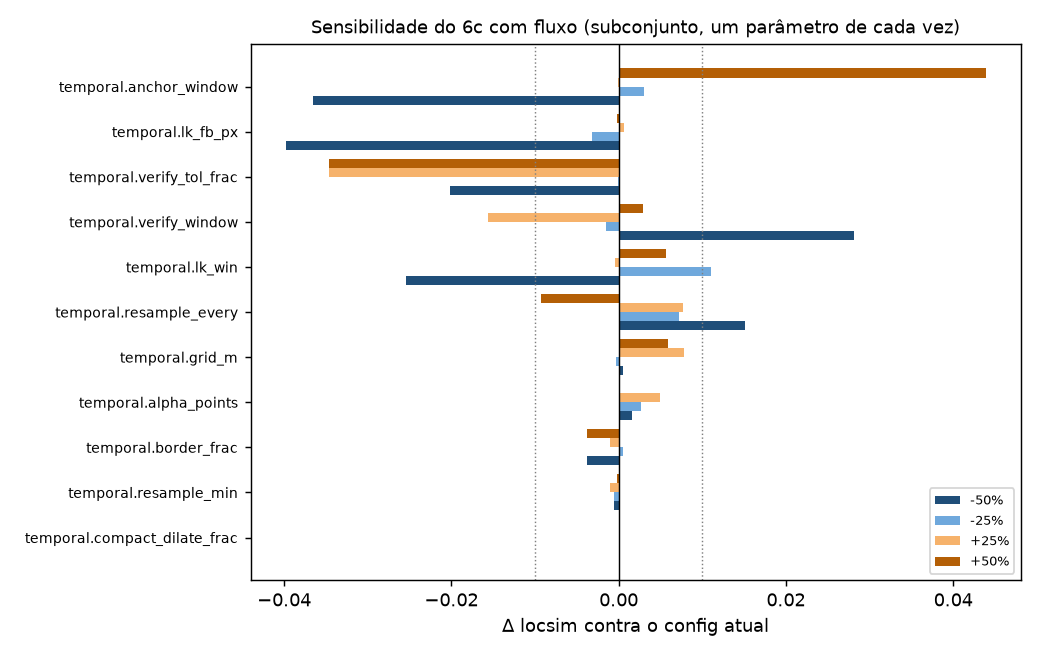
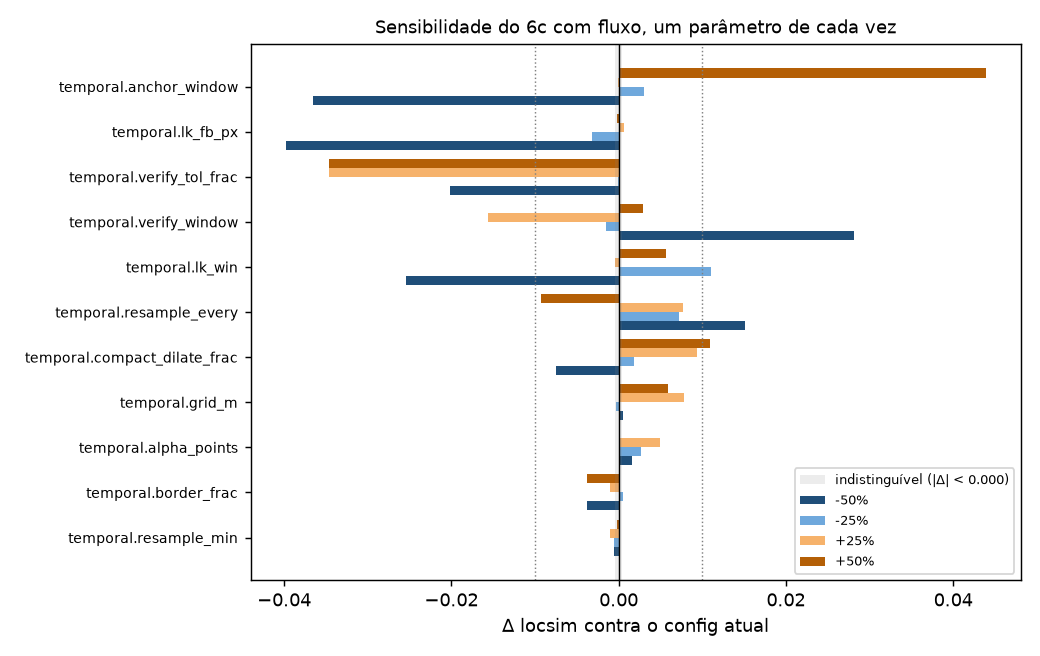
Fatia 7 (parte 4): confirmação dos candidatos, tabela com a resolução e perfil de custo
- Confirmação (regra fixada antes de rodar): 14 configurações do detector
  em 1.697 frames do GSR train e nas 209 imagens do WC14, 3 do 6c nos 19
  clipes do train[::3]; Δ com intervalo por bootstrap pareado. Passa só o
  segment.gsr.line_thr −50% (+0,034 [+0,003; +0,065]), com efeito de sinal
  oposto entre os jogos (proposta a decidir). Nenhum candidato do 6c passa.
- Exceção à lista fechada: o fuse_d_frac da variante, cuja primeira medição
  o bug invalidou, entrou como 13º candidato.
- Sensibilidade refeita para o fuse_d_frac da variante, os fit.* (com o
  gabarito fixo) e o compact_dilate_frac; o config atual reproduz a referência.
- Tabela importa/não importa com a resolução e tornados com a faixa.
- decisoes.md: resultados, memória durante a rodada, perfil de tempo do
  detector e do 6c, e o bug pendente do LocSim penalizado sem nenhuma H.

diff --git a/src/sensitivity.py b/src/sensitivity.py
@@ -490,9 +490,9 @@ def run_confirm(pool, part):
 def _resolution(v, kind):
     """O valor de um frame/imagem numa métrica: média ou proporção sobre N unidades -> 1/N;
     mediana -> quanto uma unidade a mais, acima ou abaixo, desloca a mediana."""
-    v = np.asarray(v, float)
     if kind == "proporcao":
         return 1 / len(v)
+    v = np.asarray(v, float)
     v = v[np.isfinite(v)]
     m = np.median(v)
     return max(abs(np.median(np.r_[v, np.inf]) - m), abs(np.median(np.r_[v, -np.inf]) - m))

diff --git a/docs/decisoes.md b/docs/decisoes.md
@@ -633,3 +633,118 @@ Uma linha por decisão não óbvia. Data | decisão | por quê.
   - **Regra:** qualquer proposta futura que mexa em `fit.*` exige, antes, separar o ajuste do gabarito do ajuste do detector, com a regravação conferida da chave do gabarito.
   | Decisão de Victor.
 - 2026-10-01 | **Sensibilidade do 6c sem cortes (`seg` = 0) é equivalente no subconjunto.** A tabela de cortes da produção (`outputs/cortes_negativos.csv`, todas as distâncias entre frames consecutivos do GSR train) não tem par acima de `cut_thr` = 0,202 em nenhum dos 6 clipes (060, 070, 099, 109, 154, 164). A maior distância é 0,172 (SNGS-154), e as outras ficam entre 0,077 e 0,132. A tabela da sensibilidade do 6c não precisa de ressalva. A confirmação do 6c usa o caminho da produção, com os cortes. | Medição.
+- 2026-10-01 | **Exceção à lista fechada da confirmação** (decisão de Victor; gravada antes da etapa 4).
+  - **Regra:** entram na lista fechada, depois de fechada, só os parâmetros cuja primeira medição foi invalidada por bug, com o melhor passo e o mesmo critério (≥ 0,02).
+  - **Por que não viola a lista fechada:** a lista fechada impede acrescentar candidatos depois de olhar os números de parâmetros já medidos. Estes nunca tinham sido medidos de verdade.
+  - **Aplicação:**
+    - **`detector.variants.td6_e1.lines.fuse_d_frac`** (o `lines.fuse_d_frac` estava sombreado): **entra** na confirmação do detector, com o melhor passo, +25%. Medido de novo nos 60 frames do GSR: LocSim +0,036 em +25%, +0,027 em +50%, +0,013 em −25% e +0,003 em −50%.
+    - **`temporal.compact_dilate_frac`** (o bug da GPU): **fica de fora** da confirmação do 6c. Medido de novo nos 6 clipes: o melhor passo é +50%, com LocSim +0,0109 < 0,02 (os outros: −50% −0,0075, −25% +0,0018, +25% +0,0093), e a cobertura não muda em nenhum passo.
+    - **`fit.max_resid_px` e `fit.max_cond`** (o gabarito chegava a mudar com eles): no GSR, medidos de novo com o gabarito fixo, dão 0 nos quatro passos e não entram. No WC14, o `fit.max_cond` dá +0,029 de cobertura (uma imagem) em +25% e +50%, mas não é candidato: a métrica do critério no WC14 é o IoU, que fica em +0,0002.
+  - **Cadeia:** o candidato novo é acrescentado à etapa 4 antes de ela começar. O que já foi medido não é refeito, porque os checkpoints levam o candidato e a unidade no nome.
+  | Decisão de Victor.
+- 2026-10-01 | **Confirmação dos candidatos da sensibilidade: resultado** (regra gravada antes de rodar; `outputs/confirmacao_detector.csv`, `confirmacao_6c.csv`, `confirmacao_6c_ancoras.csv`). Δ = candidato − atual, com intervalo de 95% por bootstrap pareado (2.000 reamostragens, semente 20261001).
+  - **Rodadas:** detector com 14 configurações em 1.697 frames do GSR train (57 clipes, 1 a cada 25) e nas 209 imagens do WC14 `train_val`; 6c com 3 configurações nos 19 clipes do train[::3]. 1.092 + 57 tarefas, 0 falhas.
+  - **Conferências:**
+    - na etapa 3, o config foi editado com a rodada no ar (só a seção `sensitivity`). Depois do fato: as chaves dos checkpoints são todas a da rodada (`1c1f98a9e654`), o `src/` está igual ao `d8a5176`, e o config efetivo do 6c e do detector também;
+    - o "6c fluxo" do atual reproduz o cache da produção H a H nos 19 clipes;
+    - a base do detector, recortada nos subconjuntos da regressão, reproduz a da sensibilidade (GSR 0,4333 / 0,0058 / 0,3448; WC14 0,5143 / 0,9101 / 0,0098).
+  - **Atual** no subconjunto maior: GSR LocSim@5 penalizado 0,333, cobertura 0,418, NPE 0,0063; WC14 IoU 0,929, cobertura 0,517, NPE 0,0106; 6c LocSim 0,708, cobertura 0,894.
+  - **Passa só o `segment.gsr.line_thr` −50%** (30 → 15): Δ LocSim +0,034 [+0,003; +0,065], cobertura +0,055. O WC14 não muda, porque o parâmetro é só do GSR. Por jogo, porém, o efeito tem sinal contrário:
+
+    | jogo | LocSim | NPE |
+    |---|---|---|
+    | 4 | +0,127 | 0,0116 → 0,0078 |
+    | 6 | +0,017 | 0,0050 → 0,0053 |
+    | 9 | **−0,046** | 0,0056 → **0,0130** |
+
+    Por clipe, 29 melhoram e 23 pioram (|Δ| > 0,01). O sinal acompanha o contraste por jogo da Fatia 3: no jogo 4, só 64% dos pontos anotados passavam do limiar 30.
+  - **Não passam no detector:**
+    - `open_frac` +25%: +0,018 [+0,005; +0,033], abaixo de 0,02;
+    - variante `fuse_d_frac` +25%: +0,008 [+0,000; +0,018];
+    - `lab_c_min` +50%: +0,008;
+    - `hough_min_len_frac` +25%: +0,005;
+    - `hough_votes_frac` +25%: +0,004;
+    - `shape_elong_min` −25%: +0,001;
+    - `line_k` +25%: −0,003, com IoU no WC14 −0,013 [−0,028; −0,001];
+    - `lab_dhue_deg` +50%: −0,008;
+    - `grass_dilate_w` +25%: −0,010;
+    - `fuse_theta_deg` −50%: **−0,023** [−0,034; −0,013];
+    - do WC14: `line_k` −25%, IoU −0,017 [−0,033; +0,001] e cobertura −0,081; `grass_dilate_w` −50%, IoU +0,003.
+
+    Os ganhos de +0,03 a +0,08 dos 60 frames não se sustentam, e dois deles trocam de sinal: `line_k` −25% no WC14 (+0,022 → −0,017) e `fuse_theta_deg` −50% no GSR (+0,030 → −0,023).
+  - **6c, nenhum passa:**
+    - `anchor_window` +50%: +0,019 [−0,016; +0,078]. Vem de um clipe só: no SNGS-106, a âncora 692 sai e rende +0,53. Nos outros, o parâmetro só tira âncoras, de 20 para 11 no SNGS-103, por exemplo. Perdem o SNGS-069 (−0,077) e o SNGS-153 (−0,074).
+    - `verify_window` −50%: −0,028 [−0,111; +0,025], cobertura −0,053. O SNGS-069 perde as 2 âncoras.
+  - **Zero exato explicado:** o `open_frac` +25% dá Δ = 0 no WC14 porque o elemento estruturante arredonda para ímpar. Com 720 px de altura, 7,2 px e 9,0 px viram o mesmo núcleo de 9×9.
+  - **Combinação:** não se aplica, porque só um passou.
+  | Medição.
+- 2026-10-01 | **Tabela "importa / não importa" com a resolução** (`outputs/sensibilidade_importa.csv`; tornados com a faixa de 2× a resolução).
+  - **Resolução de uma unidade:**
+
+    | base | cobertura | métrica do critério |
+    |---|---|---|
+    | GSR, 60 frames | 0,0167 | LocSim@5 penalizado 0,0167 |
+    | WC14, 35 imagens | 0,0286 | IoU mediano 0,0033 (quanto uma imagem a mais desloca a mediana) |
+    | 6c, 4.500 frames | 0,0002 | 0,0002 |
+
+  - **Contagens:**
+
+    | base | importa | indistinguível | não importa |
+    |---|---|---|---|
+    | GSR | 14 | 9 | 5 |
+    | WC14 | 13 | 9 | 6 |
+    | 6c | 7 | 0 | 4 |
+
+  - **Ressalvas:**
+    - a resolução é o menor passo, não o ruído. A da mediana do IoU subestima o ruído, porque a cobertura muda o conjunto de imagens;
+    - no 6c, os frames não são independentes: a unidade efetiva é a âncora. A confirmação mediu o ruído real: o `anchor_window` foi de +0,044 em 6 clipes para +0,019 [−0,016; +0,078] em 19.
+  | Medição.
+- 2026-10-01 | **Memória durante a confirmação do detector** (medida só por leitura, com 10 trabalhadores; pedido de Victor).
+  - **Física:** RAM de 15,9 GB, 6,4 GB livres; os 11 processos da rodada têm 1,6 GB residentes, ~150 MB cada.
+  - **Commit:** o do sistema está em 27,8 de 32,7 GB (85%); o da rodada é de 12,3 GB.
+  - **Paginação:** nenhuma página gravada; páginas lidas em média 17/s (máximo 102/s); arquivo de paginação a 4%.
+  - **Causa do commit alto:** a OpenBLAS do numpy e a do scipy reservam buffers para 16 threads ao importar. Um processo confirma 1.053 MB com 84 MB residentes; com `OPENBLAS_NUM_THREADS=1`, confirma 89 MB.
+  - **Risco:** chegar ao limite de commit. Isso daria `MemoryError`, que vira falha no manifesto, não erro silencioso.
+  - **Proposta, nada mudado:** `OPENBLAS_NUM_THREADS=1` nos trabalhadores, que já usam 1 thread no OpenCV. Medir o efeito no tempo antes.
+  | Medição.
+- 2026-10-01 | **Perfil de tempo do detector e do 6c** (pedido de Victor; seção de custo do relatório; nada otimizado).
+  - **Medição:** um processo, config atual, `cv2.setNumThreads(1)` como nos trabalhadores, numa máquina de 16 threads lógicas. Tempo por etapa com um cronômetro nas funções de entrada, contando só a chamada mais externa; numa segunda passada, o cProfile, que soma ~25% de sobrecarga. Saídas em `outputs/runs/perfil_custo.out` e `perfil_custo_6c.out`. A leitura e a decodificação de um frame do GSR (JPEG 1920×1080) custam 6–7 ms e ficam fora do detector.
+  - **Detector, em ms por frame:**
+
+    | etapa | GSR (5 frames, 1920×1080) | WC14 (5 imagens, 1280×720) |
+    |---|---|---|
+    | **total** | **4.762** | **2.899** |
+    | pontuação (`Evidence`, `field_iou`, `verify`, ambiguidade) | 2.587 (54%) | 1.295 (45%) |
+    | hipóteses | 917 (19%) | 663 (23%) |
+    | refino (guiado + `fit_point_line`) | 604 (13%) | 410 (14%) |
+    | elipses | 432 (9%) | 443 (15%) |
+    | segmentação | 183 (4%) | 68 (2%) |
+    | Hough/linhas | 30 (0,6%) | 15 (0,5%) |
+
+    **O gargalo é a verificação das hipóteses** em Python. Em cada frame do GSR, ~11 mil hipóteses passam pelo `valid_orientation` (52.920 chamadas nos 5 frames, ~1,3 s por frame, quase todo o tempo das hipóteses), ~1.100 vão ao `verify` e ~9 mil ao `field_iou`. O tempo vai para `project`, `project_segments` e `point_segment_distance` (geometria em numpy, chamada centenas de milhares de vezes). A operação de imagem em si (segmentação e Hough) fica em ~5% do total, o que confirma o motivo de não usar GPU no detector.
+  - **6c fluxo, 100 frames do SNGS-099 (300–399), com GPU:** 3 âncoras aceitas (as mesmas da produção) e H em todos os frames.
+
+    | etapa | ms por frame |
+    |---|---|
+    | **total** | **127** |
+    | reestimativa (`fit_points_lines`: `least_squares` + distâncias) | 56 (44%) |
+    | máscaras em lote na GPU | 25 (20%) |
+    | verificação das âncoras por Lucas–Kanade | 13 (10%) |
+    | Lucas–Kanade da propagação | 12 (9%) |
+    | leitura e conversão para cinza | 8 (6%) |
+    | desempacotar as máscaras | 3 |
+    | histograma dos cortes | 2 |
+    | outros | 7 |
+
+    Uma janela sem âncora (frames 0–99) custa 69 ms por frame, quase tudo das máscaras.
+  - **Para o relatório:** a propagação custa ~1/37 do detector por frame. O 6c, porém, usa a série do detector em todos os frames para escolher as âncoras, então o custo do pipeline completo é o do detector em todo frame, ~4,8 s por frame em um núcleo, mais ~0,13 s.
+  - **Pendente:** a comparação com a tabela 6 do AuxFlow, que ainda não está transcrita.
+  | Medição.
+- 2026-10-01 | **Bug (pendente de decisão): o LocSim@5 penalizado vira NaN quando nenhum frame tem H.** O `evaluate.summarize` só calcula o penalizado se houver alguma distância. Pela definição (`01-metodo`: a pessoa de frame sem H vale 0), o valor nesse caso é 0. O `_metric` da confirmação reproduz o mesmo comportamento, de propósito, para bater com o `summarize`.
+  - **Afetados:**
+    - na sensibilidade do GSR, o `gate_iou` +25% e +50% (aceite impossível com 1,0) sai com Δ NaN, quando o certo é −0,345. Na tabela "importa", a coluna do LocSim dele mostra 0,000; a classificação "importa" vem da cobertura (−0,433) e está certa. O tornado fica sem a barra;
+    - na tabela de âncoras do 6c, o Δ do SNGS-069 com `verify_window` −50% sai NaN; o clipe perde todas as H.
+    - no WC14, o IoU NaN do `gate_iou` é legítimo: não há imagem coberta para a mediana.
+  - **Não afetados:** os números agregados das Fatias 5 a 7 (o conjunto inteiro sempre tem alguma H) e a confirmação (nenhum candidato zera a cobertura).
+  - **Correção proposta, a decidir:** o `summarize` passa a dar 0 quando há pessoas e nenhuma H. O `evaluate.py` entra na chave do 6c, então a correção pede a regravação conferida das 81 chaves (as linhas guardadas não mudam: só o `summarize` muda), refazer as 8 tarefas do `gate_iou` na sensibilidade do detector e gerar de novo as tabelas.
+  | Defeito encontrado; aguarda Victor.
